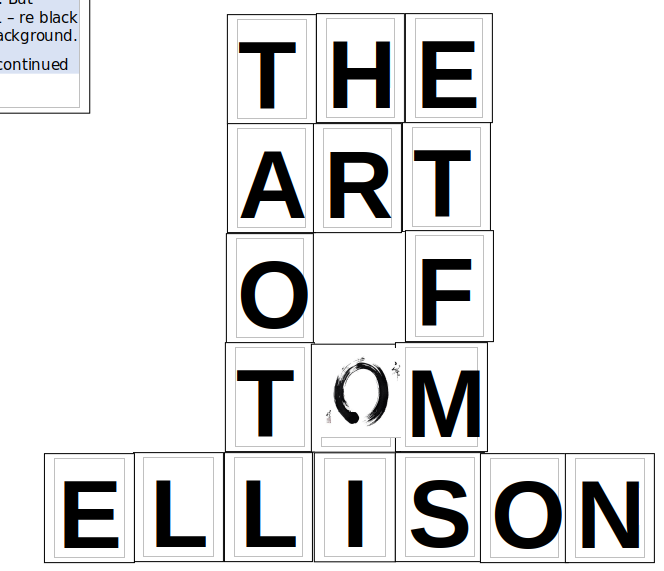
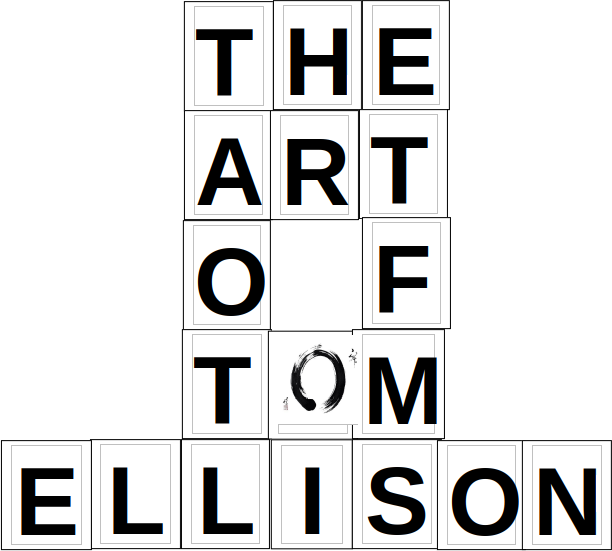
Finished loading screen

Changed region(s): [[0.0, 0.0, 1.0, 1.0], [0.0, 0.0, 0.1552, 0.1851], [0.0, 0.1851, 0.1242, 0.216]]

diff --git a/src/app.js b/src/app.js
@@ -1,4 +1,4 @@
-import React from "react";
+import React, { useState, useEffect} from "react";
 import { BrowserRouter, Routes, Route, Link } from "react-router-dom";
 //import Imgslider from "./component/slider/ImageSlider.jsx"
 //nav bar 
@@ -13,27 +13,43 @@ import About from "./pages/About.jsx";
 import Categories from "./pages/Categories.jsx";
 import Support from "./pages/Support.jsx";
 import Collection from "./pages/Collection.jsx";
+import Load from "./component/loading/loading.jsx";
 
 // import Home {Banner} from "./pages/Home";
+
+// import for loading page 
+import LoadingScreen from "./component/loading/loading.jsx";
 
 
 
 export function App () {
-    
+    const [loading, setLoading] = useState(true)
+
+    useEffect(() => {setTimeout(() => setLoading(false), 6000)}, [])
 
 
   return (
+    <>
+    {loading === false ? (
+      
       <BrowserRouter>
           {/* <Navbar />
           <ScrollToTop /> */}
         <Routes>
-          <Route path="/" element={<Home />} />
+          <Route path="/" element={<Home/>} />
           <Route path="/about" element={<About />} />
           <Route path="/categories" element={<Categories />} />
           <Route path="/support" element={<Support />} />
           <Route path="/collection" element={<Collection />} />
         </Routes>
-      </BrowserRouter>
+      </BrowserRouter>) : (
+      
+      
+      <LoadingScreen />)}
+    
+    
+    </>
+      
 
     );
 }

diff --git a/src/index.js b/src/index.js
@@ -4,26 +4,10 @@ import  ReactDOM from "react-dom";
 import { App } from "./app";
 import './app.scss';
 
-// setup for the loading page 
-const { useEffect } = React;
-const loader = document.querySelector('.loader');
-
-// setup the loaders 
-const showLoader = () => loader.classList.remove('loader--hide');
-
-const hideLoader = () => loader.classList.add('loader--hide');
-
-const app = ({ hideLoader }) => {
-    useEffect(hideLoader, []);
-
-    return (
-        <div>Im the app</div>
-    );
-}
 
 
 
 
 const appElement = document.getElementById('app');
 
-setTimeout(() => ReactDOM.render(<App hideLoader={hideLoader} showLoader={showLoader} />, appElement), 10000);
+ReactDOM.render(<App/>, appElement)

diff --git a/src/component/loading/loading.jsx b/src/component/loading/loading.jsx
@@ -1,0 +1,14 @@
+import React from "react";
+import "./loading.scss";
+import loadpic from "../../../public/LoadingScreen.webp"
+
+
+export default function LoadingScreen() {
+    return (
+    <div className="loading-container">
+        <img id="loadingImage" src={loadpic} ></img>
+    </div>
+    );
+}
+
+

diff --git a/src/component/loading/loading.scss b/src/component/loading/loading.scss
@@ -1,0 +1,18 @@
+body {
+    margin: 0;
+    padding: 0;
+}
+
+#loadingImage {
+    align-self: center;
+    height: max-content;
+}
+
+@media (max-width: 1300px) {
+   
+    #loadingImage {
+        width: max-content;
+        height: auto;
+    }
+    
+  }

diff --git a/src/index.html b/src/index.html
@@ -12,7 +12,6 @@
     </head>
     <body>
        <div id="app"></div>
-       <img class="loader" src="/public/LoadingScreen.png" width="100" height="100"></img>
        <script src="index.bundle.js"></script>
     </body>
 </html>
